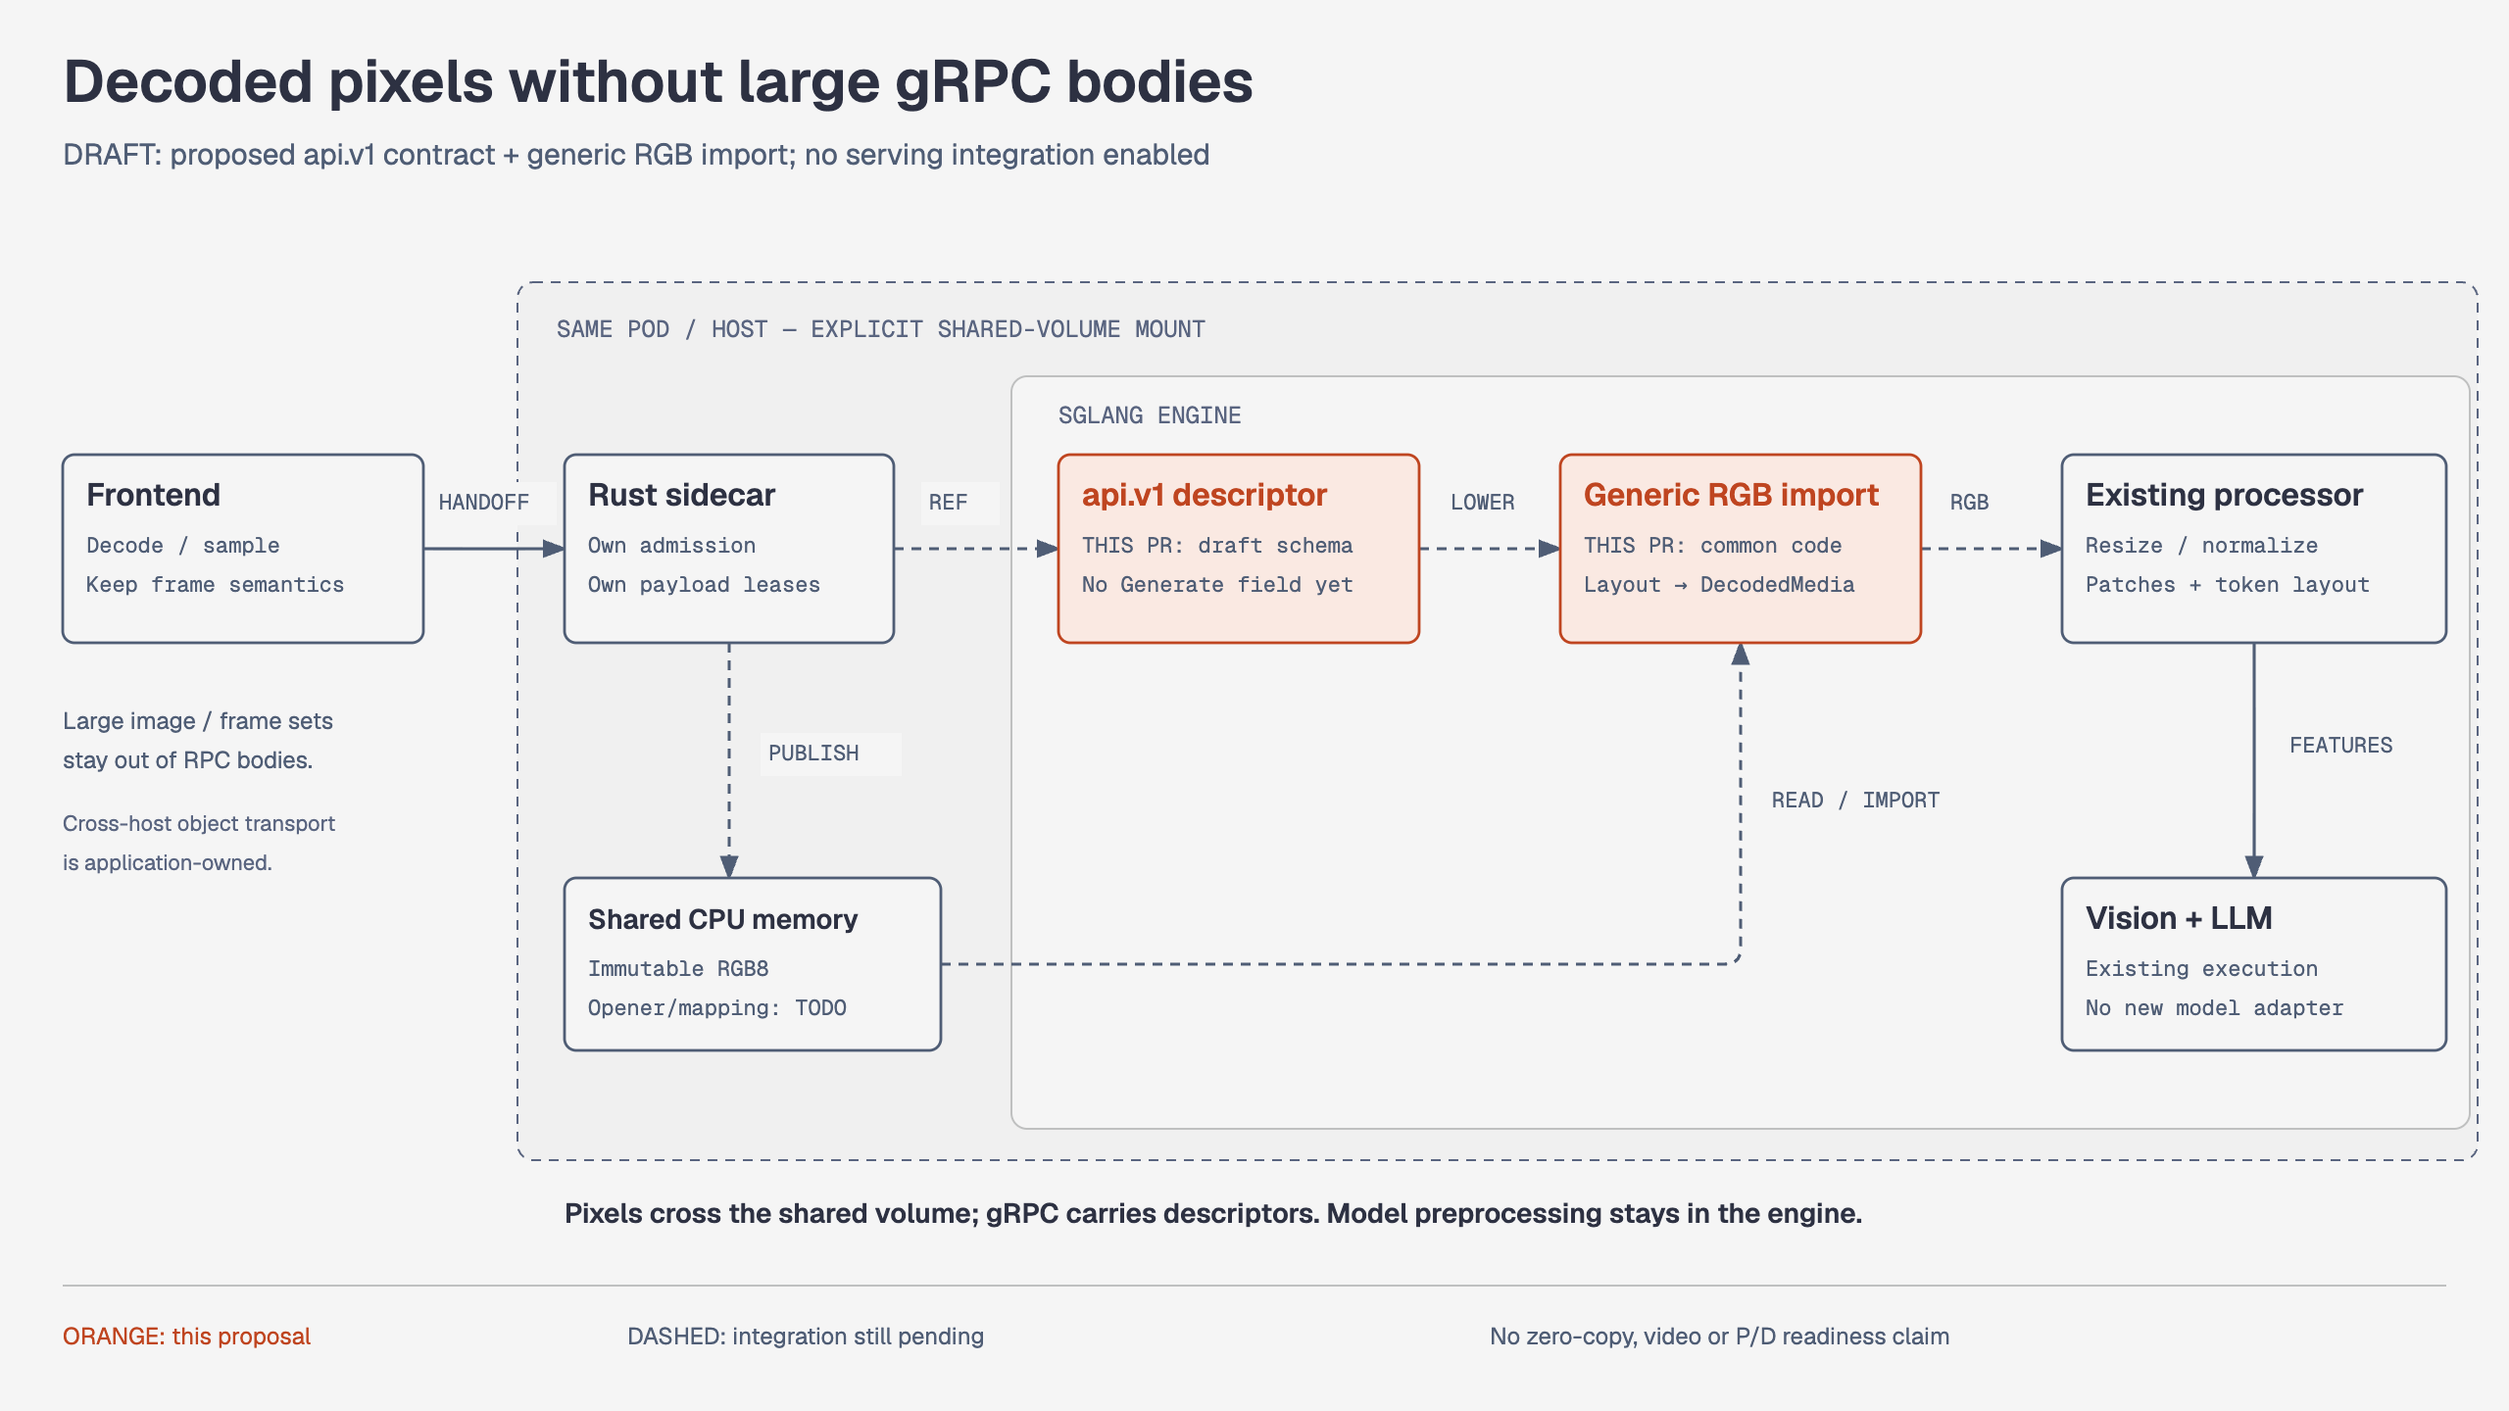
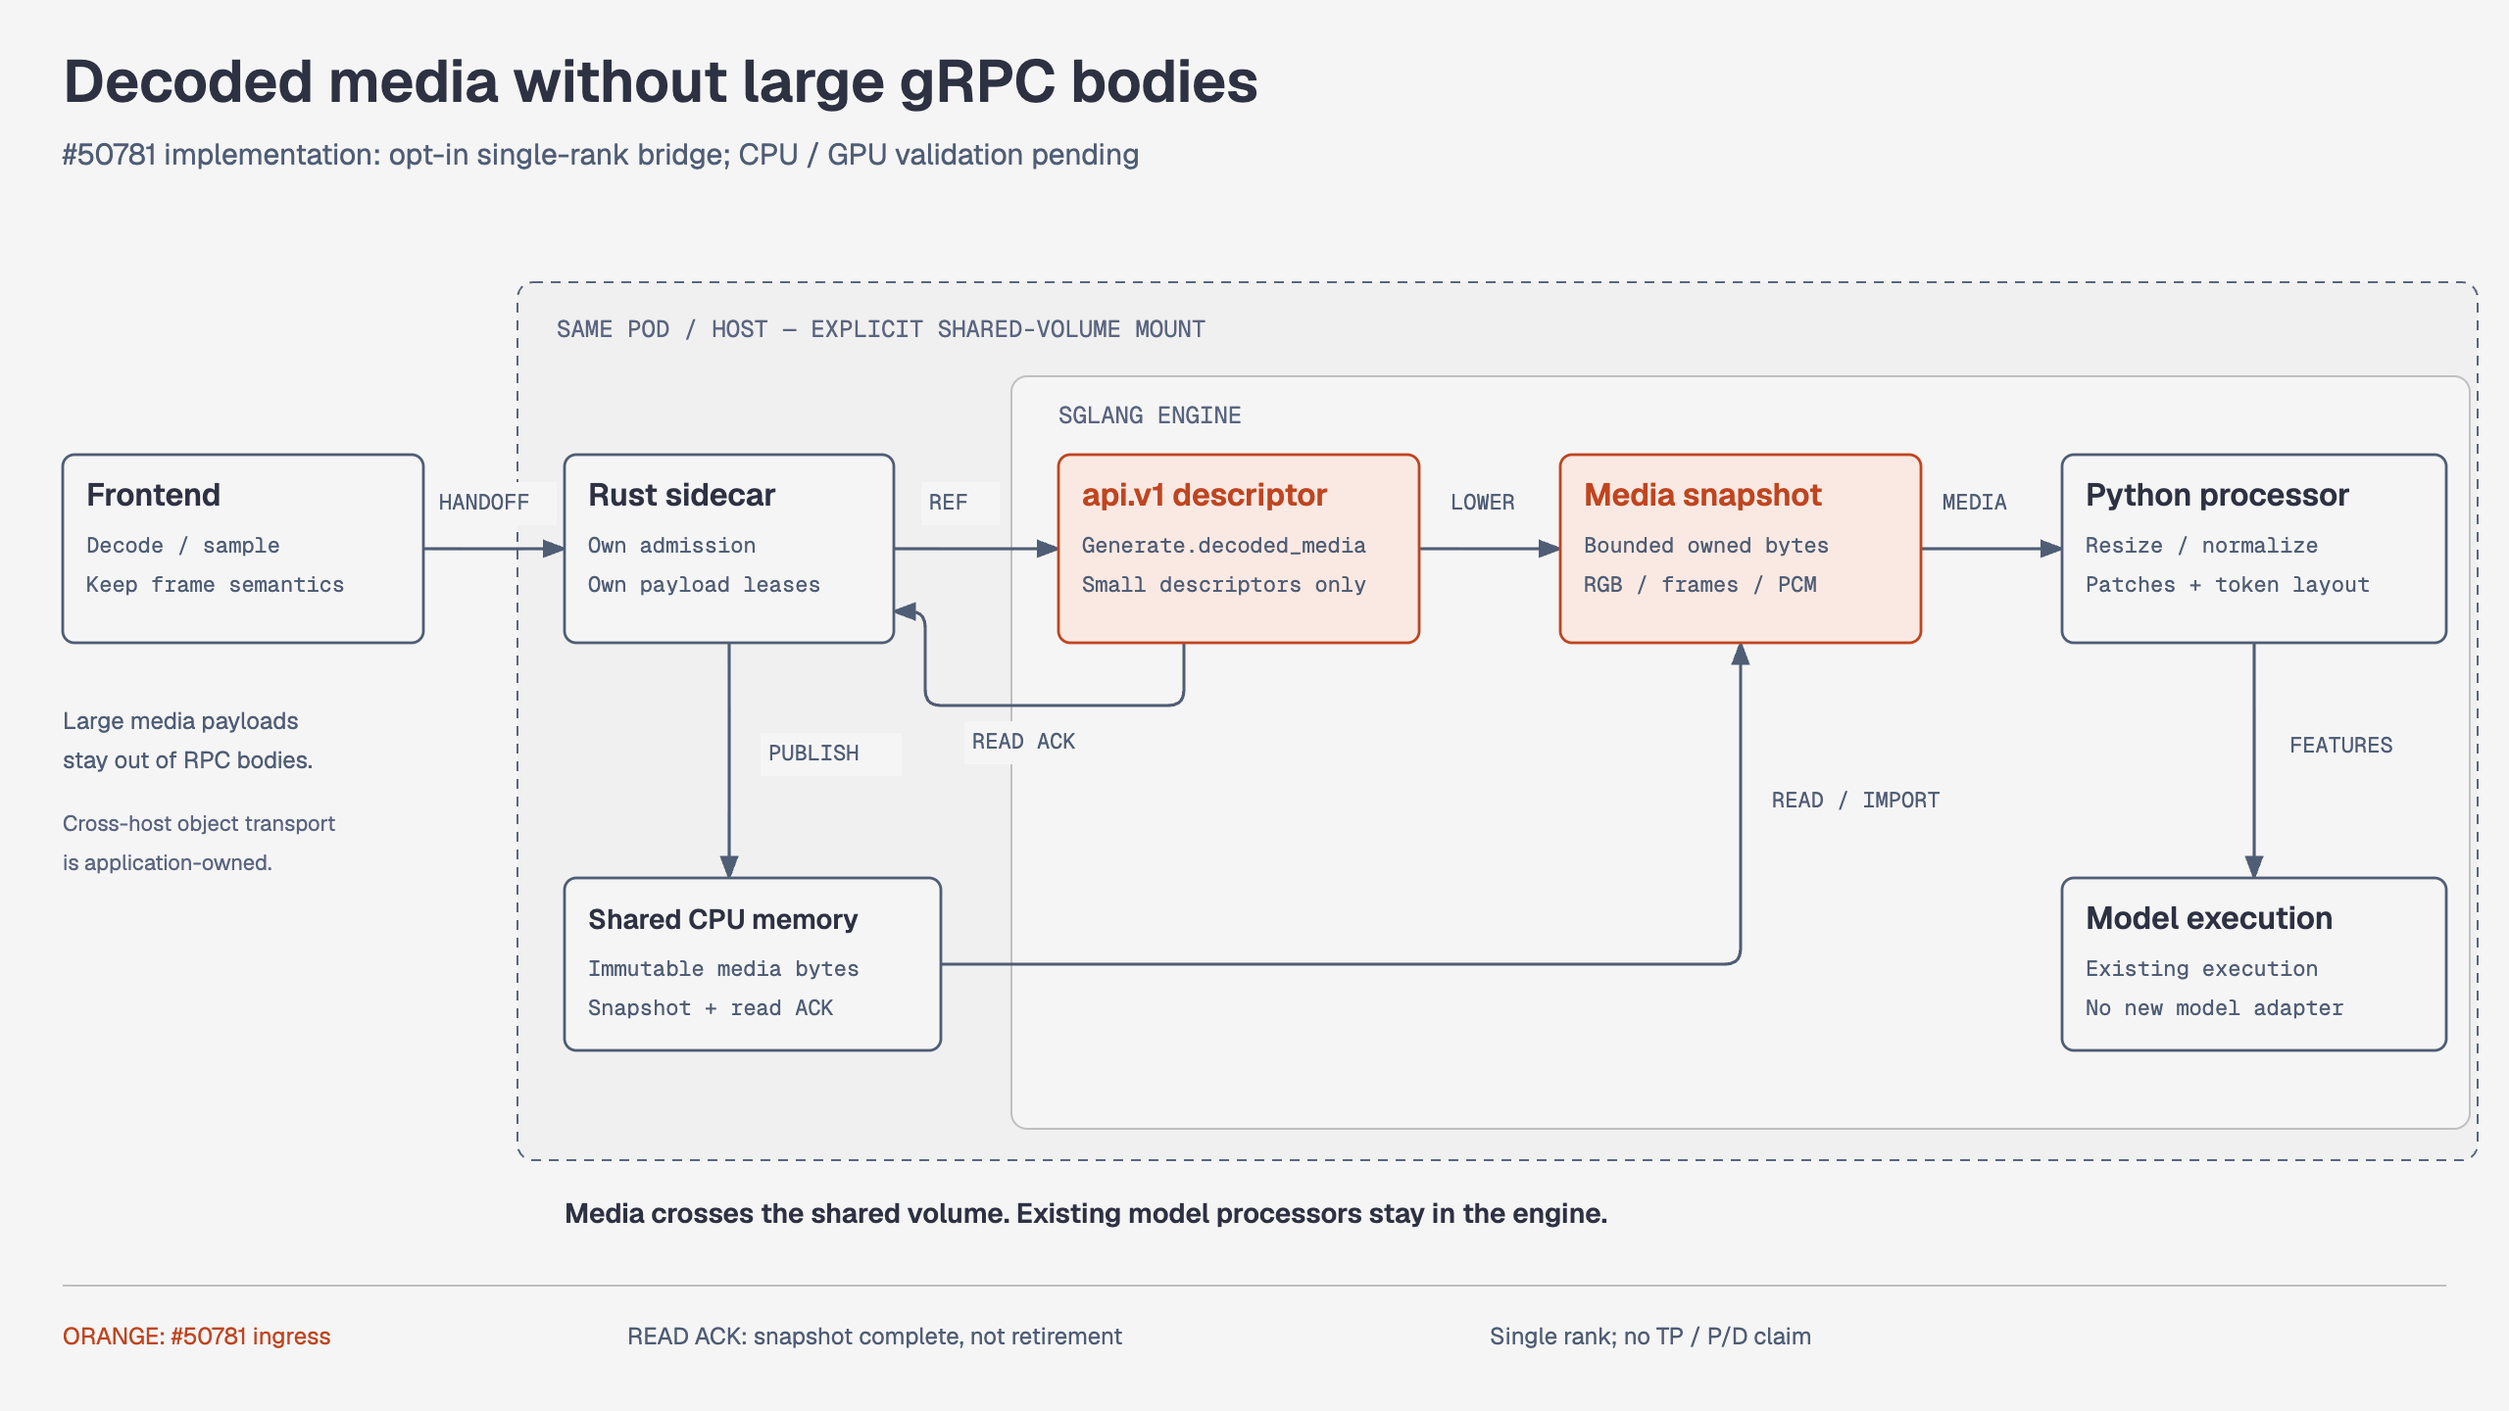
docs: update decoded media ingress diagram for implemented bridge

diff --git a/assets/decoded-rgb-shm/decoded-rgb-shm.html b/assets/decoded-rgb-shm/decoded-rgb-shm.html
@@ -1,29 +1,32 @@
-<!DOCTYPE html><html lang="en"><head><meta charset="UTF-8"><meta name="viewport" content="width=device-width,initial-scale=1"><title>Decoded RGB sidecar payload proposal</title><link href="https://fonts.googleapis.com/css2?family=Geist:wght@400;600&amp;family=Geist+Mono:wght@400;500&amp;family=Instrument+Serif&amp;display=swap" rel="stylesheet"><style>*{box-sizing:border-box}body{margin:0;background:#f5f5f5;color:#2d3142;font-family:Geist,system-ui,sans-serif}.frame{max-width:1280px;margin:auto}h1{font-family:'Instrument Serif',serif;font-weight:400;font-size:32px;padding:16px 32px;margin:0}.diagram-container{width:100%;overflow-x:auto}svg{width:100%;min-width:1280px;display:block}</style></head><body><main class="frame"><h1>Shared-memory media ingress</h1><div class="diagram-container"><svg xmlns="http://www.w3.org/2000/svg" viewBox="0 0 1280 720" role="img" aria-labelledby="decoded-rgb-shm-title decoded-rgb-shm-desc">
-<title id="decoded-rgb-shm-title">Decoded RGB sidecar payload proposal</title>
-<desc id="decoded-rgb-shm-desc">The proposed api.v1 descriptor and generic RGB import connect a sidecar shared-memory data plane to existing engine processors; dashed links remain unimplemented.</desc>
+<!DOCTYPE html><html lang="en"><head><meta charset="UTF-8"><meta name="viewport" content="width=device-width,initial-scale=1"><title>Decoded media sidecar ingress</title><link href="https://fonts.googleapis.com/css2?family=Geist:wght@400;600&amp;family=Geist+Mono:wght@400;500&amp;family=Instrument+Serif&amp;display=swap" rel="stylesheet"><style>*{box-sizing:border-box}body{margin:0;background:#f5f5f5;color:#2d3142;font-family:Geist,system-ui,sans-serif}.frame{max-width:1280px;margin:auto}h1{font-family:'Instrument Serif',serif;font-weight:400;font-size:32px;padding:16px 32px;margin:0}.diagram-container{width:100%;overflow-x:auto}svg{width:100%;min-width:1280px;display:block}</style></head><body><main class="frame"><h1>Shared-memory media ingress</h1><div class="diagram-container"><svg xmlns="http://www.w3.org/2000/svg" viewBox="0 0 1280 720" role="img" aria-labelledby="decoded-rgb-shm-title decoded-rgb-shm-desc">
+<title id="decoded-rgb-shm-title">Decoded media sidecar ingress</title>
+<desc id="decoded-rgb-shm-desc">Native api.v1 carries decoded media references; bounded owned snapshots feed existing Python model processors, with a read receipt for producer cleanup.</desc>
 <defs><marker id="arrow" markerWidth="8" markerHeight="6" refX="7" refY="3" orient="auto"><path d="M0 0 L8 3 L0 6Z" fill="#4f5d75"/></marker></defs>
 <rect width="1280" height="720" fill="#f5f5f5"/>
-<text x="32" y="52" fill="#2d3142" font-family="Geist, system-ui, sans-serif" font-size="30" font-weight="600">Decoded pixels without large gRPC bodies</text>
-<text x="32" y="84" fill="#4f5d75" font-family="Geist, system-ui, sans-serif" font-size="15" font-weight="400">DRAFT: proposed api.v1 contract + generic RGB import; no serving integration enabled</text>
+<text x="32" y="52" fill="#2d3142" font-family="Geist, system-ui, sans-serif" font-size="30" font-weight="600">Decoded media without large gRPC bodies</text>
+<text x="32" y="84" fill="#4f5d75" font-family="Geist, system-ui, sans-serif" font-size="15" font-weight="400">#50781 implementation: opt-in single-rank bridge; CPU / GPU validation pending</text>
 <rect x="264" y="144" width="1000" height="448" rx="8" fill="#f0f0f0" stroke="#5a6580" stroke-dasharray="5 4"/>
 <text x="284" y="172" fill="#5a6580" font-family="Geist Mono, ui-monospace, monospace" font-size="12" font-weight="400">SAME POD / HOST — EXPLICIT SHARED-VOLUME MOUNT</text>
 <rect x="516" y="192" width="744" height="384" rx="8" fill="#f5f5f5" stroke="#bfc0c0"/>
 <text x="540" y="216" fill="#5a6580" font-family="Geist Mono, ui-monospace, monospace" font-size="12" font-weight="400">SGLANG ENGINE</text>
 <path d="M216 280 L288 280" fill="none" stroke="#4f5d75" stroke-width="1.6" marker-end="url(#arrow)"/>
-<path d="M456 280 L540 280" fill="none" stroke="#4f5d75" stroke-width="1.6" stroke-dasharray="5 4" marker-end="url(#arrow)"/>
-<path d="M724 280 L796 280" fill="none" stroke="#4f5d75" stroke-width="1.6" stroke-dasharray="5 4" marker-end="url(#arrow)"/>
-<path d="M980 280 L1052 280" fill="none" stroke="#4f5d75" stroke-width="1.6" stroke-dasharray="5 4" marker-end="url(#arrow)"/>
-<path d="M372 328 L372 448" fill="none" stroke="#4f5d75" stroke-width="1.6" stroke-dasharray="5 4" marker-end="url(#arrow)"/>
-<path d="M480 492 H880 Q888 492 888 484 V328" fill="none" stroke="#4f5d75" stroke-width="1.6" stroke-dasharray="5 4" marker-end="url(#arrow)"/>
+<path d="M456 280 L540 280" fill="none" stroke="#4f5d75" stroke-width="1.6" marker-end="url(#arrow)"/>
+<path d="M724 280 L796 280" fill="none" stroke="#4f5d75" stroke-width="1.6" marker-end="url(#arrow)"/>
+<path d="M980 280 L1052 280" fill="none" stroke="#4f5d75" stroke-width="1.6" marker-end="url(#arrow)"/>
+<path d="M372 328 L372 448" fill="none" stroke="#4f5d75" stroke-width="1.6" marker-end="url(#arrow)"/>
+<path d="M480 492 H880 Q888 492 888 484 V328" fill="none" stroke="#4f5d75" stroke-width="1.6" marker-end="url(#arrow)"/>
 <path d="M1150 328 L1150 448" fill="none" stroke="#4f5d75" stroke-width="1.6" marker-end="url(#arrow)"/>
+<path d="M604 328 V352 Q604 360 596 360 H480 Q472 360 472 352 V320 Q472 312 464 312 H456" fill="none" stroke="#4f5d75" stroke-width="1.6" marker-end="url(#arrow)"/>
+<rect x="492" y="368" width="72" height="22" fill="#f5f5f5"/>
+<text x="496" y="382" fill="#4f5d75" font-family="Geist Mono, ui-monospace, monospace" font-size="11">READ ACK</text>
 <rect x="220" y="246" width="64" height="22" fill="#f5f5f5"/>
 <text x="224" y="260" fill="#4f5d75" font-family="Geist Mono, ui-monospace, monospace" font-size="11" font-weight="400">HANDOFF</text>
 <rect x="470" y="246" width="40" height="22" fill="#f5f5f5"/>
 <text x="474" y="260" fill="#4f5d75" font-family="Geist Mono, ui-monospace, monospace" font-size="11" font-weight="400">REF</text>
 <rect x="736" y="246" width="50" height="22" fill="#f5f5f5"/>
 <text x="740" y="260" fill="#4f5d75" font-family="Geist Mono, ui-monospace, monospace" font-size="11" font-weight="400">LOWER</text>
-<rect x="991" y="246" width="40" height="22" fill="#f5f5f5"/>
-<text x="995" y="260" fill="#4f5d75" font-family="Geist Mono, ui-monospace, monospace" font-size="11" font-weight="400">RGB</text>
+<rect x="987" y="246" width="58" height="22" fill="#f5f5f5"/>
+<text x="991" y="260" fill="#4f5d75" font-family="Geist Mono, ui-monospace, monospace" font-size="11" font-weight="400">MEDIA</text>
 <rect x="388" y="374" width="72" height="22" fill="#f5f5f5"/>
 <text x="392" y="388" fill="#4f5d75" font-family="Geist Mono, ui-monospace, monospace" font-size="11" font-weight="400">PUBLISH</text>
 <rect x="900" y="398" width="124" height="22" fill="#f5f5f5"/>
@@ -42,36 +45,36 @@
 </g>
 <g data-node-id="api"><rect x="540" y="232" width="184" height="96" rx="6" fill="#fae9e2" stroke="#bf4520" stroke-width="1.4"/>
 <text x="552" y="258" fill="#bf4520" font-family="Geist, system-ui, sans-serif" font-size="16" font-weight="600">api.v1 descriptor</text>
-<text x="552" y="282" fill="#4f5d75" font-family="Geist Mono, ui-monospace, monospace" font-size="11" font-weight="400">THIS PR: draft schema</text>
-<text x="552" y="302" fill="#4f5d75" font-family="Geist Mono, ui-monospace, monospace" font-size="11" font-weight="400">No Generate field yet</text>
+<text x="552" y="282" fill="#4f5d75" font-family="Geist Mono, ui-monospace, monospace" font-size="11" font-weight="400">Generate.decoded_media</text>
+<text x="552" y="302" fill="#4f5d75" font-family="Geist Mono, ui-monospace, monospace" font-size="11" font-weight="400">Small descriptors only</text>
 </g>
 <g data-node-id="import"><rect x="796" y="232" width="184" height="96" rx="6" fill="#fae9e2" stroke="#bf4520" stroke-width="1.4"/>
-<text x="808" y="258" fill="#bf4520" font-family="Geist, system-ui, sans-serif" font-size="16" font-weight="600">Generic RGB import</text>
-<text x="808" y="282" fill="#4f5d75" font-family="Geist Mono, ui-monospace, monospace" font-size="11" font-weight="400">THIS PR: common code</text>
-<text x="808" y="302" fill="#4f5d75" font-family="Geist Mono, ui-monospace, monospace" font-size="11" font-weight="400">Layout → DecodedMedia</text>
+<text x="808" y="258" fill="#bf4520" font-family="Geist, system-ui, sans-serif" font-size="16" font-weight="600">Media snapshot</text>
+<text x="808" y="282" fill="#4f5d75" font-family="Geist Mono, ui-monospace, monospace" font-size="11" font-weight="400">Bounded owned bytes</text>
+<text x="808" y="302" fill="#4f5d75" font-family="Geist Mono, ui-monospace, monospace" font-size="11" font-weight="400">RGB / frames / PCM</text>
 </g>
 <g data-node-id="processor"><rect x="1052" y="232" width="196" height="96" rx="6" fill="#f5f5f5" stroke="#4f5d75" stroke-width="1.4"/>
-<text x="1064" y="258" fill="#2d3142" font-family="Geist, system-ui, sans-serif" font-size="16" font-weight="600">Existing processor</text>
+<text x="1064" y="258" fill="#2d3142" font-family="Geist, system-ui, sans-serif" font-size="16" font-weight="600">Python processor</text>
 <text x="1064" y="282" fill="#4f5d75" font-family="Geist Mono, ui-monospace, monospace" font-size="11" font-weight="400">Resize / normalize</text>
 <text x="1064" y="302" fill="#4f5d75" font-family="Geist Mono, ui-monospace, monospace" font-size="11" font-weight="400">Patches + token layout</text>
 </g>
 <g data-node-id="storage"><rect x="288" y="448" width="192" height="88" rx="6" fill="#f5f5f5" stroke="#4f5d75" stroke-width="1.4"/>
 <text x="300" y="474" fill="#2d3142" font-family="Geist, system-ui, sans-serif" font-size="14" font-weight="600">Shared CPU memory</text>
-<text x="300" y="498" fill="#4f5d75" font-family="Geist Mono, ui-monospace, monospace" font-size="11" font-weight="400">Immutable RGB8</text>
-<text x="300" y="518" fill="#4f5d75" font-family="Geist Mono, ui-monospace, monospace" font-size="11" font-weight="400">Opener/mapping: TODO</text>
+<text x="300" y="498" fill="#4f5d75" font-family="Geist Mono, ui-monospace, monospace" font-size="11" font-weight="400">Immutable media bytes</text>
+<text x="300" y="518" fill="#4f5d75" font-family="Geist Mono, ui-monospace, monospace" font-size="11" font-weight="400">Snapshot + read ACK</text>
 </g>
 <g data-node-id="gpu"><rect x="1052" y="448" width="196" height="88" rx="6" fill="#f5f5f5" stroke="#4f5d75" stroke-width="1.4"/>
-<text x="1064" y="474" fill="#2d3142" font-family="Geist, system-ui, sans-serif" font-size="16" font-weight="600">Vision + LLM</text>
+<text x="1064" y="474" fill="#2d3142" font-family="Geist, system-ui, sans-serif" font-size="16" font-weight="600">Model execution</text>
 <text x="1064" y="498" fill="#4f5d75" font-family="Geist Mono, ui-monospace, monospace" font-size="11" font-weight="400">Existing execution</text>
 <text x="1064" y="518" fill="#4f5d75" font-family="Geist Mono, ui-monospace, monospace" font-size="11" font-weight="400">No new model adapter</text>
 </g>
-<text x="32" y="372" fill="#4f5d75" font-family="Geist, system-ui, sans-serif" font-size="12" font-weight="400">Large image / frame sets</text>
+<text x="32" y="372" fill="#4f5d75" font-family="Geist, system-ui, sans-serif" font-size="12" font-weight="400">Large media payloads</text>
 <text x="32" y="392" fill="#4f5d75" font-family="Geist, system-ui, sans-serif" font-size="12" font-weight="400">stay out of RPC bodies.</text>
 <text x="32" y="424" fill="#5a6580" font-family="Geist, system-ui, sans-serif" font-size="11" font-weight="400">Cross-host object transport</text>
 <text x="32" y="444" fill="#5a6580" font-family="Geist, system-ui, sans-serif" font-size="11" font-weight="400">is application-owned.</text>
-<text x="288" y="624" fill="#2d3142" font-family="Geist, system-ui, sans-serif" font-size="14" font-weight="600">Pixels cross the shared volume; gRPC carries descriptors. Model preprocessing stays in the engine.</text>
+<text x="288" y="624" fill="#2d3142" font-family="Geist, system-ui, sans-serif" font-size="14" font-weight="600">Media crosses the shared volume. Existing model processors stay in the engine.</text>
 <line x1="32" y1="656" x2="1248" y2="656" stroke="#bfc0c0"/>
-<text x="32" y="686" fill="#bf4520" font-family="Geist, system-ui, sans-serif" font-size="12" font-weight="400">ORANGE: this proposal</text>
-<text x="320" y="686" fill="#4f5d75" font-family="Geist, system-ui, sans-serif" font-size="12" font-weight="400">DASHED: integration still pending</text>
-<text x="760" y="686" fill="#4f5d75" font-family="Geist, system-ui, sans-serif" font-size="12" font-weight="400">No zero-copy, video or P/D readiness claim</text>
+<text x="32" y="686" fill="#bf4520" font-family="Geist, system-ui, sans-serif" font-size="12" font-weight="400">ORANGE: #50781 ingress</text>
+<text x="320" y="686" fill="#4f5d75" font-family="Geist, system-ui, sans-serif" font-size="12" font-weight="400">READ ACK: snapshot complete, not retirement</text>
+<text x="760" y="686" fill="#4f5d75" font-family="Geist, system-ui, sans-serif" font-size="12" font-weight="400">Single rank; no TP / P/D claim</text>
 </svg></div></main></body></html>
